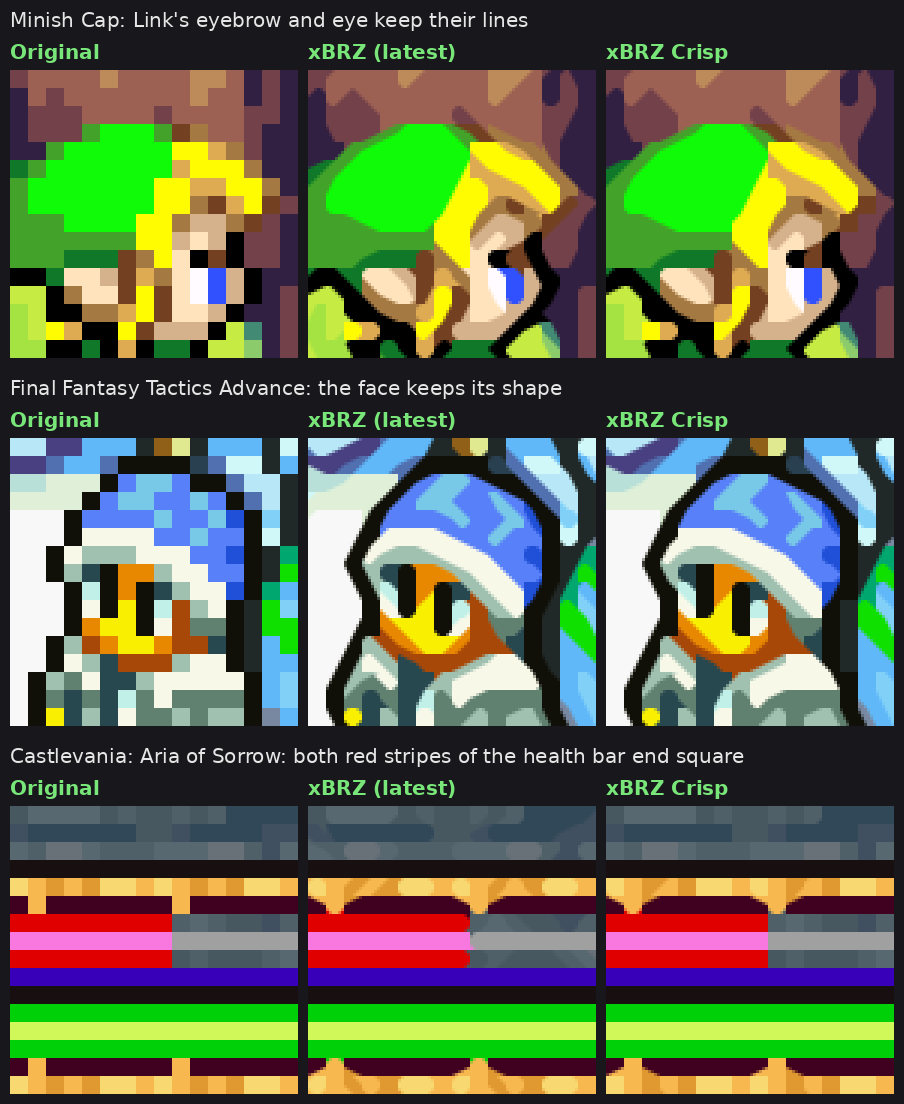
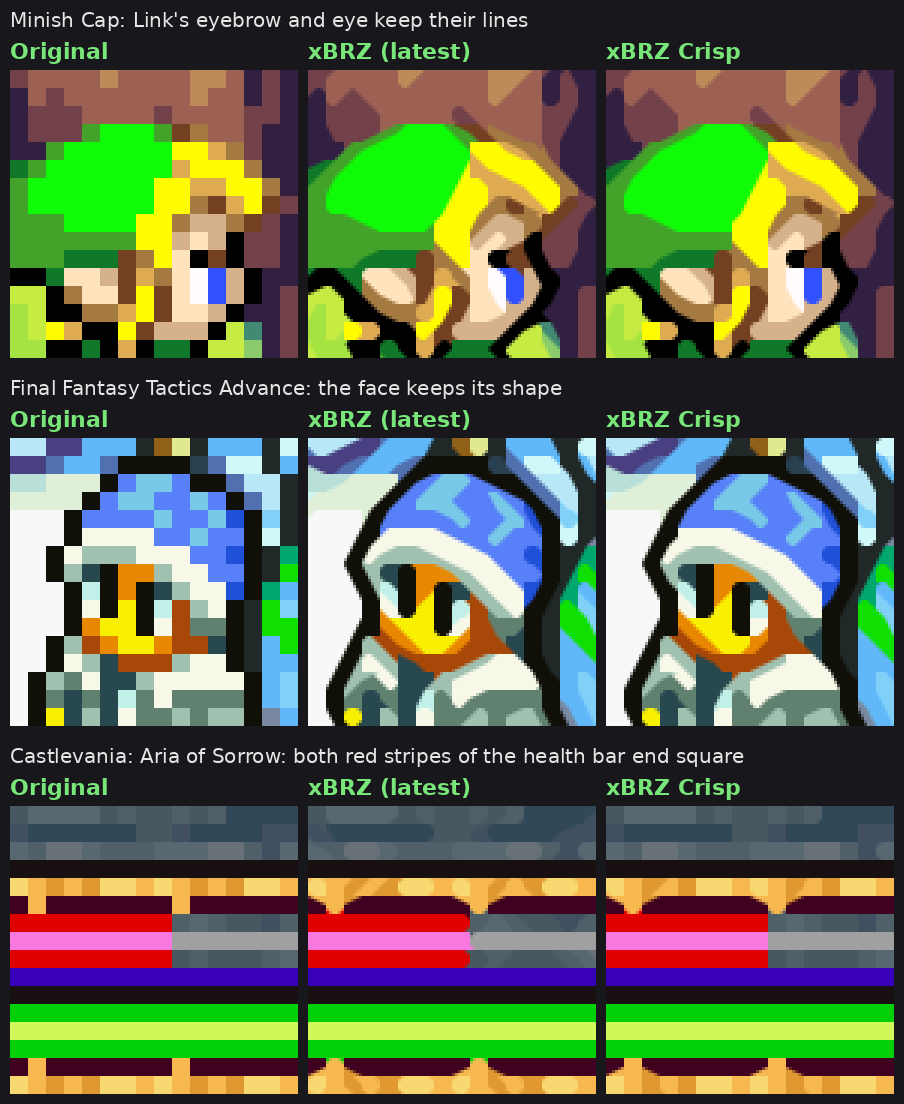
Default contrast 20, presets 16/20/24, README and comparison page explain what Crisp adds
- XBRZ_MINC defaults to 20; xbrz-crisp-16 and xbrz-crisp-24 presets (glsl and slang)
- README and comparison images rebuilt at contrast 20 (gallery, faces, menu, banner, presets strip, animation)
- README: How it works collapsed and rewritten around three rules with an image
- Comparison page: defaults to Crisp 20 and explains each rule with examples

diff --git a/docs/index.html b/docs/index.html
@@ -1,6 +1,6 @@
 <!doctype html>
 <html lang="en"><head><meta charset="utf-8"><meta name="viewport" content="width=device-width,initial-scale=1,viewport-fit=cover">
-<title>xBRZ crisp</title>
+<title>xBRZ Crisp</title>
 <meta name="claude:viewport-fit-sides" content="cover">
 <link rel="preconnect" href="https://fonts.googleapis.com">
 <link rel="stylesheet" href="https://fonts.googleapis.com/css2?family=Pixelify+Sans:wght@500;700&family=Archivo:wght@400;500;600&family=JetBrains+Mono:wght@400;600&display=swap">
@@ -106,6 +106,10 @@ table { border-collapse: collapse; width: 100%; font-size: .95rem; }
 th, td { text-align: left; padding: 9px 12px; border-bottom: 1px solid var(--line); vertical-align: top; }
 th { font-size: .75rem; letter-spacing: .08em; text-transform: uppercase; color: var(--muted); font-weight: 600; }
 td.num { font-variant-numeric: tabular-nums; font-family: var(--font-mono); }
+figure { margin: 4px 0 0; display: grid; gap: 6px; }
+figure img { display: block; width: 100%; height: auto; border-radius: 8px; image-rendering: pixelated; image-rendering: crisp-edges; }
+figcaption { font-size: .85rem; color: var(--muted); }
+h3 { font: 600 1.05rem/1.3 var(--font-body); margin: 14px 0 0; }
 .tablebox { overflow-x: auto; background: var(--panel); border: 1px solid var(--line); border-radius: 10px; }
 ol { margin: 0; padding-left: 1.3em; display: grid; gap: 6px; }
 @media (max-width: 560px) { .tag { font-size: .72rem; } .frame { max-height: 70vh; } }
@@ -115,8 +119,9 @@ ol { margin: 0; padding-left: 1.3em; display: grid; gap: 6px; }
 
 <div class="wrap">
   <header class="prose">
-    <h1>xBRZ crisp</h1>
-    <p class="lede">xBRZ smooths every corner it finds, so soft shading and textures melt into blobs. xBRZ crisp only rounds a corner when its two colors are clearly different. Outlines, text and sprites are smoothed as in xBRZ, and grass, foliage and stone keep the pixels the artists drew.</p>
+    <h1>xBRZ Crisp</h1>
+    <p class="lede">xBRZ smooths every corner it finds, so soft shading and textures melt into blobs. xBRZ Crisp only rounds a corner when its two colors are clearly different. Outlines, text and sprites are smoothed as in xBRZ, and grass, foliage and stone keep the pixels the artists drew.</p>
+    <p><a href="#how">See what Crisp adds on top of xBRZ</a></p>
     <p class="muted">Drag the line to compare. All frames are Game Boy Advance screens at 6x, rendered with the RetroArch shader code. Integer (integer scaling) shows the original pixels. MMPX Adv (MMPX Advanced) is the libretro scalenx shader at 2x, enlarged 3x, and ScaleFX is the libretro scalefx-9x preset at 9x, scaled down to 6x by area averaging. xBRZ (latest) is the current libretro <code>xbrz-freescale-multipass</code>, which already includes improvements that came from xBRZ Crisp.</p>
   </header>
 
@@ -142,9 +147,9 @@ ol { margin: 0; padding-left: 1.3em; display: grid; gap: 6px; }
           <button type="button" data-v="14">14</button>
           <button type="button" data-v="16">16</button>
           <button type="button" data-v="18">18</button>
-          <button type="button" data-v="20">20</button>
+          <button type="button" data-v="20">20 (default)</button>
           <button type="button" data-v="22">22</button>
-          <button type="button" data-v="24">24 (default)</button>
+          <button type="button" data-v="24">24</button>
           <button type="button" data-v="26">26</button>
           <button type="button" data-v="28">28</button>
           <button type="button" data-v="30">30</button>
@@ -166,9 +171,9 @@ ol { margin: 0; padding-left: 1.3em; display: grid; gap: 6px; }
           <button type="button" data-v="14">14</button>
           <button type="button" data-v="16">16</button>
           <button type="button" data-v="18">18</button>
-          <button type="button" data-v="20">20</button>
+          <button type="button" data-v="20">20 (default)</button>
           <button type="button" data-v="22">22</button>
-          <button type="button" data-v="24">24 (default)</button>
+          <button type="button" data-v="24">24</button>
           <button type="button" data-v="26">26</button>
           <button type="button" data-v="28">28</button>
           <button type="button" data-v="30">30</button>
@@ -212,15 +217,15 @@ ol { margin: 0; padding-left: 1.3em; display: grid; gap: 6px; }
 
   <section class="prose">
     <h2>Presets</h2>
-    <p>There is one preset, <code>xbrz-crisp</code>, with a minimum contrast of 24, a balance between xBRZ smoothness and the original pixels. To change it, set <code>XBRZ_MINC</code> in Quick Menu › Shaders › Shader Parameters and save the preset. The cost is the same as <code>xbrz-freescale-multipass</code> at any value. Good steps:</p>
+    <p>There are three presets, from smoothest to closest to the original art. Load one, or set <code>XBRZ_MINC</code> in Quick Menu › Shaders › Shader Parameters and save the preset. The cost is the same as <code>xbrz-freescale-multipass</code> at any value.</p>
   </section>
   <div class="tablebox">
     <table>
-      <thead><tr><th>XBRZ_MINC</th><th>Look</th></tr></thead>
+      <thead><tr><th>Preset</th><th>XBRZ_MINC</th><th>Look</th></tr></thead>
       <tbody>
-        <tr><td class="num">12</td><td>xBRZ with light improvements: only the softest shading and textures keep their pixels.</td></tr>
-        <tr><td class="num">16</td><td>Textures and soft shading keep their pixels, while outlines, faces and text are smoothed as in xBRZ.</td></tr>
-        <tr><td class="num">24 (default)</td><td>Grass, foliage and textures keep most of their pixel detail, the closest to the original art, while outlines, faces and text are still smoothed. Some soft diagonals turn into steps.</td></tr>
+        <tr><td class="mono">xbrz-crisp-16</td><td class="num">16</td><td>The smoothest. Textures and soft shading keep their pixels, and everything else is smoothed as in xBRZ.</td></tr>
+        <tr><td class="mono">xbrz-crisp (default)</td><td class="num">20</td><td>The balance. Grass, foliage and stone keep most of their detail, while outlines, faces, text and most soft diagonals stay smooth.</td></tr>
+        <tr><td class="mono">xbrz-crisp-24</td><td class="num">24</td><td>The closest to the original art. Textures keep nearly all their pixels, and some soft diagonals turn into steps.</td></tr>
       </tbody>
     </table>
   </div>
@@ -233,7 +238,7 @@ ol { margin: 0; padding-left: 1.3em; display: grid; gap: 6px; }
     <table>
       <thead><tr><th>Parameter</th><th>Default</th><th>What it does</th></tr></thead>
       <tbody>
-        <tr><td class="mono">XBRZ_MINC</td><td class="num">24</td><td>Minimum color contrast (x/255) for a corner to be rounded. 0 turns it off (the tolerance and steep thresholds below still apply).</td></tr>
+        <tr><td class="mono">XBRZ_MINC</td><td class="num">20</td><td>Minimum color contrast (x/255) for a corner to be rounded. 0 turns it off (the tolerance and steep thresholds below still apply).</td></tr>
         <tr><td class="mono">XBRZ_DIAG</td><td class="num">100</td><td>Maximum color distance (x/255) between the two colors a cut would join. Above it, the corner stays square. 0 turns it off.</td></tr>
         <tr><td class="mono">XBRZ_TOL</td><td class="num">15</td><td>Equal color tolerance. The reference C++ xBRZ uses 30.</td></tr>
         <tr><td class="mono">XBRZ_STEEP</td><td class="num">3.2</td><td>Steep and shallow line threshold. The reference C++ xBRZ uses 2.2, which turns 1-pixel steps into slopes; 3.2 keeps letters and 1-pixel details closer to the original.</td></tr>
@@ -242,21 +247,47 @@ ol { margin: 0; padding-left: 1.3em; display: grid; gap: 6px; }
     </table>
   </div>
 
-  <section class="prose">
-    <h2>How it works</h2>
-    <p>xBRZ decides corner by corner whether to cut a pixel's corner with a neighbor's color. xBRZ crisp keeps that decision and adds one check before drawing: if the pixel and the blend color are closer than the minimum contrast (YCbCr distance), the corner stays square. Edge detection is unchanged, so shapes are found exactly as before, and only the low-contrast blends are skipped.</p>
-    <p>Since 1.4 there is a second check: a cut joins the two neighbors on the corner's diagonal, and if those two colors differ by more than <code>XBRZ_DIAG</code> (100), the corner is a junction of different colors and stays square. Antialiasing ramps, where one of the two colors sits between the pixel and the other one, use a limit of 92, corners on shallow or steep lines are not blocked unless the line would cut a pixel with a lighter color, and a blocked corner is still cut when the next corner along the same diagonal is cut, so lines are drawn to the end. Where stacked 1-pixel stripes end flush, as in health bars, the end corners stay square when their diagonal colors differ by more than 64, so every stripe ends the same way. The idea comes from <a href="https://github.com/libretro/slang-shaders/tree/master/edge-smoothing/cleanEdge">cleanEdge</a> by torcado.</p>
-    <p>Since 1.4.1 the shallow and steep line tests weigh hue a little more than lightness (1.2x), so lines in shading that shifts hue, from orange to yellow for example, follow the artist's pixels.</p>
-    <p>Since 1.5 dark keeps its pixel: a shallow or steep line no longer cuts a darker pixel with a lighter color across a junction of different colors, so dark outlines, eyes and eyebrows stay whole. And the tip of a 1-pixel diagonal stripe runs on to the edge, as in xBRZ, when the stripe's color carries on along the cut.</p>
-    <p>Since 1.6 lines run on up to an outline: between two close inner tones the cut continues to an outline darker than both, which stays whole, except at the corner of a solid block and along 1-pixel stripes. The cut skips a corner the artist already rounded with an antialiasing pixel too, as in the numbers of a HUD. A corner whose blend color runs straight on, like a window frame or a horizontal line, stays square, so lines do not bend where they meet, and where two dark strokes of different colors meet in an L around a 1-pixel light gap, like a pupil under an eyebrow, the corner stays square too.</p>
-    <p>The shader is based on the libretro <code>xbrz-freescale-multipass</code> port. A few details were aligned with the reference C++ xBRZ: blend color ties and the order of the four corners follow the original, the GLSL version takes the output scale from the image size instead of the texture size, and the output pass reads the image from the pass before xBRZ, so it also works after other shaders in a preset.</p>
+  <section class="prose" id="how">
+    <h2>What Crisp adds on top of xBRZ</h2>
+    <p>xBRZ scales pixel art by asking one question at every corner of every pixel: is this the corner of a shape? If the answer is yes, it cuts the corner with a neighbor's color, and a staircase of pixels becomes a smooth line. That works beautifully on outlines and text. Its weakness is that it says yes too often, so shading, textures and faces get shapes the artist never drew.</p>
+    <p>xBRZ Crisp keeps every answer xBRZ gives and adds a few vetoes. A vetoed corner simply stays square, the way the artist drew it. Nothing is blurred and no new colors are made.</p>
+
+    <h3>1. Soft shading is not a shape</h3>
+    <figure><img src="img/explain/contrast.png" alt="Golden Sun tree foliage: original, xBRZ (latest) and xBRZ Crisp" loading="lazy"><figcaption>Golden Sun, tree foliage.</figcaption></figure>
+    <p>In grass, leaves and stone, neighboring pixels differ by only a few shades. xBRZ reads each of those small steps as an edge and rounds it, so the texture melts into wavy blobs. Crisp measures how different the two colors of each corner are (a YCbCr distance out of 255) and leaves the corner square below <code>XBRZ_MINC</code>. Real edges, like outlines, are far above the limit and stay smooth.</p>
+    <figure><img src="img/explain/contrast-steps.png" alt="Golden Sun grass: original, xBRZ (latest), Crisp 16, 20 and 24" loading="lazy"><figcaption>Golden Sun, village grass at the three presets.</figcaption></figure>
+    <p>This limit is the one dial that sets the look: 16 stays closest to xBRZ, 24 keeps the most texture, and 20, the default, sits in between. Up to 20, each step keeps more of the original pixels for little loss of smoothness. Past it, smooth antialiased shapes start to lose more.</p>
+
+    <h3>2. Different colors are not joined</h3>
+    <figure><img src="img/explain/diagonal.png" alt="Link's eyebrow and eye in The Minish Cap: original, xBRZ (latest) and xBRZ Crisp" loading="lazy"><figcaption>The Minish Cap, Link's eyebrow and eye.</figcaption></figure>
+    <p>Cutting a corner joins its two diagonal neighbors into one line. That is right when they share a color, as along a sloped outline. When they are very different, like brown hair next to a blue eye, the corner is a meeting point of three colors, not a line, and xBRZ pulls one color into the other: Link's eyebrow sinks into his eye. Crisp only joins diagonal neighbors whose colors are within <code>XBRZ_DIAG</code> (100) of each other.</p>
+
+    <h3>3. Dark pixels keep their shape</h3>
+    <figure><img src="img/explain/dark.png" alt="A face in Final Fantasy Tactics Advance: original, xBRZ (latest) and xBRZ Crisp" loading="lazy"><figcaption>Final Fantasy Tactics Advance, eyes under a hood.</figcaption></figure>
+    <p>Eyes, pupils and outlines are often a single dark pixel wide, and that pixel is what we read as the shape. Where a sloped line would shave a dark pixel with a lighter color, at a meeting of different colors, Crisp keeps the dark pixel whole. The eyes stay the straight strokes the artist drew instead of being rounded into drops.</p>
+
+    <h3>4. Lines end the way they were drawn</h3>
+    <figure><img src="img/explain/stripes.png" alt="Health bar of Castlevania: Aria of Sorrow: original, xBRZ (latest) and xBRZ Crisp" loading="lazy"><figcaption>Castlevania: Aria of Sorrow, the health bar.</figcaption></figure>
+    <p>Health bars, frames and windows are built from straight 1-pixel lines. xBRZ rounds their ends and bends them where they meet another line. Crisp keeps a corner square when its blend color runs straight on, and stacked stripes that end together all end square, so the bar keeps its clean edge.</p>
+    <figure><img src="img/explain/outline.png" alt="A character in Final Fantasy Tactics Advance: original, xBRZ (latest) and xBRZ Crisp" loading="lazy"><figcaption>Final Fantasy Tactics Advance, a character seen from behind.</figcaption></figure>
+    <p>The vetoes never cut a line short. A blocked corner is still cut when the next corner along the same diagonal is cut, so diagonal lines are drawn to their end, and between two close inner tones the cut runs on up to the dark outline, which stays whole.</p>
+
+    <h3>5. The artist's antialiasing stays</h3>
+    <figure><img src="img/explain/antialias.png" alt="HUD numbers in The Minish Cap: original, xBRZ (latest) and xBRZ Crisp" loading="lazy"><figcaption>The Minish Cap, HUD numbers.</figcaption></figure>
+    <p>Many sprites already have hand-placed in-between pixels that soften a corner, like the gray pixels around these white numbers. When one of a corner's colors sits between the other two, Crisp treats it as the artist's antialiasing and uses a stricter limit (92), so xBRZ does not round the same corner a second time.</p>
+
+    <h3>What does not change</h3>
+    <figure><img src="img/explain/text.png" alt="Spell menu text in Harry Potter: Prisoner of Azkaban: original, xBRZ (latest) and xBRZ Crisp" loading="lazy"><figcaption>Harry Potter: Prisoner of Azkaban, spell menu.</figcaption></figure>
+    <p>Edges are found exactly as xBRZ finds them, so letters, outlines and large shapes come out as smooth as in xBRZ. The result reads like xBRZ from a distance, with clean round shapes. Up close, textures, faces and interface details look like the original art instead of being repainted.</p>
+    <p>The idea of only joining colors that match along the diagonal comes from <a href="https://github.com/libretro/slang-shaders/tree/master/edge-smoothing/cleanEdge">cleanEdge</a> by torcado. No cleanEdge code is included.</p>
+    <p class="muted">Port details: the shader is based on the libretro <code>xbrz-freescale-multipass</code> port. Blend color ties and the order of the four corners follow the reference C++ xBRZ, the GLSL version takes the output scale from the image size instead of the texture size, and the output pass reads the image from the pass before xBRZ, so it also works after other shaders in a preset.</p>
   </section>
 
   <section class="prose">
     <h2>Install</h2>
     <ol>
       <li>Copy the <code>xbrz</code> files into RetroArch's shader folder: <code>shaders_slang/edge-smoothing/xbrz/</code> for Vulkan, glcore, D3D and Metal, or <code>shaders_glsl/xbrz/</code> for the gl driver.</li>
-      <li>In a game, open Quick Menu › Shaders › Load and pick <code>xbrz-crisp</code>.</li>
+      <li>In a game, open Quick Menu › Shaders › Load and pick <code>xbrz-crisp</code>, or <code>xbrz-crisp-16</code> or <code>xbrz-crisp-24</code> for the other presets.</li>
       <li>Save it with Quick Menu › Shaders › Save › Save Global Preset, or per game with Save Game Preset.</li>
     </ol>
   </section>
@@ -277,7 +308,7 @@ ol { margin: 0; padding-left: 1.3em; display: grid; gap: 6px; }
     ["hpa_house", "Harry Potter: Prisoner of Azkaban · house"]
   ];
   var NAME = { original: "Integer", mmpx: "MMPX Adv", scalefx: "ScaleFX", xbrz: "xBRZ (latest)", crisp: "xBRZ Crisp" };
-  var state = { scene: "gs_village", left: { alg: "xbrz", minc: 16 }, right: { alg: "crisp", minc: 24 }, zoom: 1, pos: 0.5, marks: false };
+  var state = { scene: "gs_village", left: { alg: "xbrz", minc: 16 }, right: { alg: "crisp", minc: 20 }, zoom: 1, pos: 0.5, marks: false };
 
   var $ = function (id) { return document.getElementById(id); };
   var sel = $("scene"), frame = $("frame"), stage = $("stage"), imgL = $("imgL"), imgR = $("imgR"), cv = $("cvM"), marks = $("marks"), info = $("info");
@@ -293,7 +324,7 @@ ol { margin: 0; padding-left: 1.3em; display: grid; gap: 6px; }
   function src(scene, k) { return "img/" + scene + "-" + k + ".png"; }
 
   // preload the current scene's six images so switching sides is instant
-  function preload(scene) { ["original", "xbrz", "mmpx", "scalefx", "crisp12", "crisp16", "crisp24"].forEach(function (k) { var i = new Image(); i.src = src(scene, k); }); }
+  function preload(scene) { ["original", "xbrz", "mmpx", "scalefx", "crisp12", "crisp16", "crisp20", "crisp24"].forEach(function (k) { var i = new Image(); i.src = src(scene, k); }); }
 
   function setPressed(group, value) {
     Array.prototype.forEach.call(group.querySelectorAll("button"), function (b) { b.setAttribute("aria-pressed", String(b.dataset.v === String(value))); });

diff --git a/README.md b/README.md
@@ -26,7 +26,7 @@
 
 <h2 align="center">🎬 Interactive Comparison</h2>
 
-<a href="https://ele3131.github.io/xbrz-crisp/"><img src="comparisons/preview-24.png" alt="Animated comparison in Golden Sun, Castlevania: Aria of Sorrow, Harry Potter: Prisoner of Azkaban and Tales of Phantasia: xBRZ (latest), then xBRZ Crisp 24" width="100%"></a>
+<a href="https://ele3131.github.io/xbrz-crisp/"><img src="comparisons/preview-20.png" alt="Animated comparison in Golden Sun, Castlevania: Aria of Sorrow, Harry Potter: Prisoner of Azkaban and Tales of Phantasia: xBRZ (latest), then xBRZ Crisp 20" width="100%"></a>
 
 Pick integer scaling, MMPX Advanced, ScaleFX, xBRZ (latest) or xBRZ Crisp (contrast 12 to 30) on each side, drag the line across 10 Game Boy Advance scenes, zoom in up to 4×, hold a button to see the original pixels, and mark in red every spot where the two sides differ.
 
@@ -34,12 +34,12 @@ Pick integer scaling, MMPX Advanced, ScaleFX, xBRZ (latest) or xBRZ Crisp (contr
 
 <table>
   <tr>
-    <td width="50%"><a href="comparisons/1-golden-sun-24.png"><img src="comparisons/1-golden-sun-24.png" alt="Golden Sun"></a><p align="center"><b>Golden Sun</b></p></td>
-    <td width="50%"><a href="comparisons/2-minish-cap-24.png"><img src="comparisons/2-minish-cap-24.png" alt="The Minish Cap"></a><p align="center"><b>The Minish Cap</b></p></td>
+    <td width="50%"><a href="comparisons/1-golden-sun-20.png"><img src="comparisons/1-golden-sun-20.png" alt="Golden Sun"></a><p align="center"><b>Golden Sun</b></p></td>
+    <td width="50%"><a href="comparisons/2-minish-cap-20.png"><img src="comparisons/2-minish-cap-20.png" alt="The Minish Cap"></a><p align="center"><b>The Minish Cap</b></p></td>
   </tr>
   <tr>
-    <td width="50%"><a href="comparisons/5-golden-sun-battle-24.png"><img src="comparisons/5-golden-sun-battle-24.png" alt="Golden Sun battles"></a><p align="center"><b>Golden Sun battles</b></p></td>
-    <td width="50%"><a href="comparisons/4-castlevania-24.png"><img src="comparisons/4-castlevania-24.png" alt="Castlevania: Aria of Sorrow"></a><p align="center"><b>Castlevania: Aria of Sorrow</b></p></td>
+    <td width="50%"><a href="comparisons/5-golden-sun-battle-20.png"><img src="comparisons/5-golden-sun-battle-20.png" alt="Golden Sun battles"></a><p align="center"><b>Golden Sun battles</b></p></td>
+    <td width="50%"><a href="comparisons/4-castlevania-20.png"><img src="comparisons/4-castlevania-20.png" alt="Castlevania: Aria of Sorrow"></a><p align="center"><b>Castlevania: Aria of Sorrow</b></p></td>
   </tr>
 </table>
 
@@ -49,23 +49,23 @@ Faces keep their expression. Since 1.4, a corner where three different colors me
 
 Text and portraits keep their shape too, as in the spell menu of Harry Potter: Prisoner of Azkaban:
 
-<img src="comparisons/6-azkaban-menu.png" alt="Spell menu: original, xBRZ (latest), MMPX Advanced and xBRZ crisp" width="100%">
+<img src="comparisons/6-azkaban-menu.png" alt="Spell menu: original, xBRZ (latest), MMPX Advanced and xBRZ Crisp" width="100%">
 
-<sub>More: [other games](comparisons/3-other-games-24.png)</sub>
+<sub>More: [other games](comparisons/3-other-games-20.png)</sub>
 
 <h2 align="center">🎛 Presets</h2>
 
-One preset, `xbrz-crisp`, with a minimum contrast of 24. Change `XBRZ_MINC` in Quick Menu › Shaders › Shader Parameters and save the preset to pick another look:
+Three presets, from smoothest to closest to the original art. Load one, or change `XBRZ_MINC` in Quick Menu › Shaders › Shader Parameters:
 
-<img src="comparisons/design/presets-strip.png" alt="Golden Sun grass: original, xBRZ (latest), crisp 12, 16 and 24" width="100%">
+<img src="comparisons/design/presets-strip.png" alt="Golden Sun grass: original, xBRZ (latest), crisp 16, 20 and 24" width="100%">
 
-| `XBRZ_MINC` | Look |
-|---|---|
-| **12** | xBRZ with light improvements: only the softest shading and textures keep their pixels. |
-| **16** | Textures and soft shading keep their pixels, while outlines, faces and text are smoothed as in xBRZ. |
-| **24** (default) | Grass, foliage and textures keep most of their pixel detail, the closest to the original art, while outlines, faces and text are still smoothed. Some soft diagonals turn into steps. |
+| Preset | `XBRZ_MINC` | Look |
+|---|---|---|
+| `xbrz-crisp-16` | 16 | The smoothest. Textures and soft shading keep their pixels, and everything else is smoothed as in xBRZ. |
+| **`xbrz-crisp`** (default) | **20** | The balance. Grass, foliage and stone keep most of their detail, while outlines, faces, text and most soft diagonals stay smooth. |
+| `xbrz-crisp-24` | 24 | The closest to the original art. Textures keep nearly all their pixels, and some soft diagonals turn into steps. |
 
-24 is the default: up to 24, each step keeps more of the original pixels for little loss of smoothness, and past it the same gain costs two to three times more.
+20 is the default because up to 20 each step keeps more of the original pixels for little loss of smoothness. Past it, smooth antialiased shapes start to lose more.
 
 <h2 align="center">🛠 Parameters</h2>
 
@@ -74,7 +74,7 @@ One preset, `xbrz-crisp`, with a minimum contrast of 24. Change `XBRZ_MINC` in Q
 
 | Parameter | Default | What it does |
 |---|---|---|
-| `XBRZ_MINC` | 24 | Minimum color contrast (x/255) for a corner to be rounded. 0 turns it off. |
+| `XBRZ_MINC` | 20 | Minimum color contrast (x/255) for a corner to be rounded. 0 turns it off. |
 | `XBRZ_DIAG` | 100 | Maximum color distance (x/255) between the two colors a cut would join. Above it, the corner stays square. 0 turns it off. |
 | `XBRZ_TOL` | 15 | Equal color tolerance. The reference C++ xBRZ uses 30. |
 | `XBRZ_STEEP` | 3.2 | Steep and shallow line threshold. The reference C++ xBRZ uses 2.2, which turns 1-pixel steps into slopes. |
@@ -86,12 +86,22 @@ libretro's `xbrz-freescale-multipass` uses the same tolerance, steep and dominan
 
 <h2 align="center">🔬 How it works</h2>
 
-xBRZ decides corner by corner whether to cut a pixel's corner with a neighbor's color. xBRZ crisp keeps that decision and adds two checks before drawing:
+<details>
+<summary>Show how xBRZ Crisp differs from xBRZ</summary>
 
-1. **Minimum contrast.** If the pixel and the blend color are closer than `XBRZ_MINC` (YCbCr distance), the corner stays square, so soft shading and textures keep their pixels.
-2. **Similar diagonal.** A cut joins the two neighbors on the corner's diagonal. If those two colors differ by more than `XBRZ_DIAG`, the corner is a junction of different colors, not a diagonal line, and it stays square. Antialiasing ramps, where one of the two colors sits between the pixel and the other one, use a limit of 92. Corners that are part of a shallow or steep line are not blocked, unless the line would cut a pixel with a lighter color: dark outlines, eyes and eyebrows keep their whole pixel, since the eye reads dark lines as the shape. A blocked corner is still cut when the next corner along the same diagonal is cut, so lines are drawn to the end, and at the tip of a 1-pixel diagonal stripe, so the stripe runs on to the edge. Between two close inner tones, the cut also runs up to an outline darker than both, so the line reaches the outline and the outline stays whole; this is skipped at the corner of a solid block, along 1-pixel stripes and next to a corner the artist already rounded with an antialiasing pixel, as in the numbers of a HUD. A corner whose blend color runs straight on, like a frame or a horizontal line, stays square, so lines do not bend where they meet. Where two dark strokes of different colors meet in an L around a 1-pixel light gap, like a pupil under an eyebrow, the corner stays square, so the two are not joined into a diagonal. Where stacked 1-pixel stripes end flush, as in health bars, the end corners stay square when their diagonal colors differ by more than 64, so every stripe ends the same way.
+<br>
 
-Edge detection is the same as in xBRZ, except that the shallow and steep line tests weigh hue a little more than lightness (1.2x), so lines in shading that shifts hue, from orange to yellow for example, follow the artist's pixels. Shapes are otherwise found exactly as before and only these blends are skipped. The idea of only joining colors that match along the diagonal comes from [cleanEdge](https://github.com/libretro/slang-shaders/tree/master/edge-smoothing/cleanEdge) by torcado.
+xBRZ looks at each corner of each pixel and decides whether to round it. xBRZ Crisp keeps every one of those decisions and only says no when rounding would invent a shape the artist never drew. In that case the corner stays square.
+
+<img src="comparisons/8-how-it-works.png" alt="Golden Sun grass, Link's eyebrow in The Minish Cap and the health bar of Castlevania: Aria of Sorrow: original, xBRZ (latest) and xBRZ Crisp" width="100%">
+
+1. 🌿 **Soft shading is not a shape** (`XBRZ_MINC`). When the two colors of a corner are closer than the minimum contrast, they are shading or texture, not an edge, so the corner stays square.
+2. 🎨 **Different colors are not joined** (`XBRZ_DIAG`). Rounding a corner joins the two neighbors on its diagonal. When those are very different colors, the corner is a meeting point, not a line, so it stays square. Dark outlines, eyes and eyebrows keep their full shape.
+3. 📏 **Lines end the way they were drawn.** Straight lines do not bend where they meet, stacked stripes end square, and diagonal lines run on to their end or up to the outline.
+
+Edges are still found exactly as xBRZ finds them, so outlines and text are smoothed as before. The diagonal check is inspired by [cleanEdge](https://github.com/libretro/slang-shaders/tree/master/edge-smoothing/cleanEdge) by torcado. The [comparison page](https://ele3131.github.io/xBRZ-Crisp/#how) goes through every rule with more examples.
+
+</details>
 
 <details>
 <summary>Port details and testing</summary>
@@ -110,7 +120,7 @@ Tested in RetroArch on Android (gl driver, Game Boy Advance at 6x). The slang ve
 > Get the latest zip from **[Releases](https://github.com/ele3131/xbrz-crisp/releases)**.
 
 1. Copy the zip's contents into RetroArch's shader folder: `shaders_slang` for Vulkan, glcore, D3D and Metal, `shaders_glsl` for the gl driver.
-2. In a game, open Quick Menu › Shaders › Load and pick `edge-smoothing/xbrz/xbrz-crisp.slangp` (slang) or `xbrz/xbrz-crisp.glslp` (glsl).
+2. In a game, open Quick Menu › Shaders › Load and pick `edge-smoothing/xbrz/xbrz-crisp.slangp` (slang) or `xbrz/xbrz-crisp.glslp` (glsl). Use `xbrz-crisp-16` or `xbrz-crisp-24` for the other presets.
 3. Save it with Quick Menu › Shaders › Save › Save Global Preset, or per game with Save Game Preset.
 
 <h2 align="center">🤝 Giving back to xBRZ</h2>
